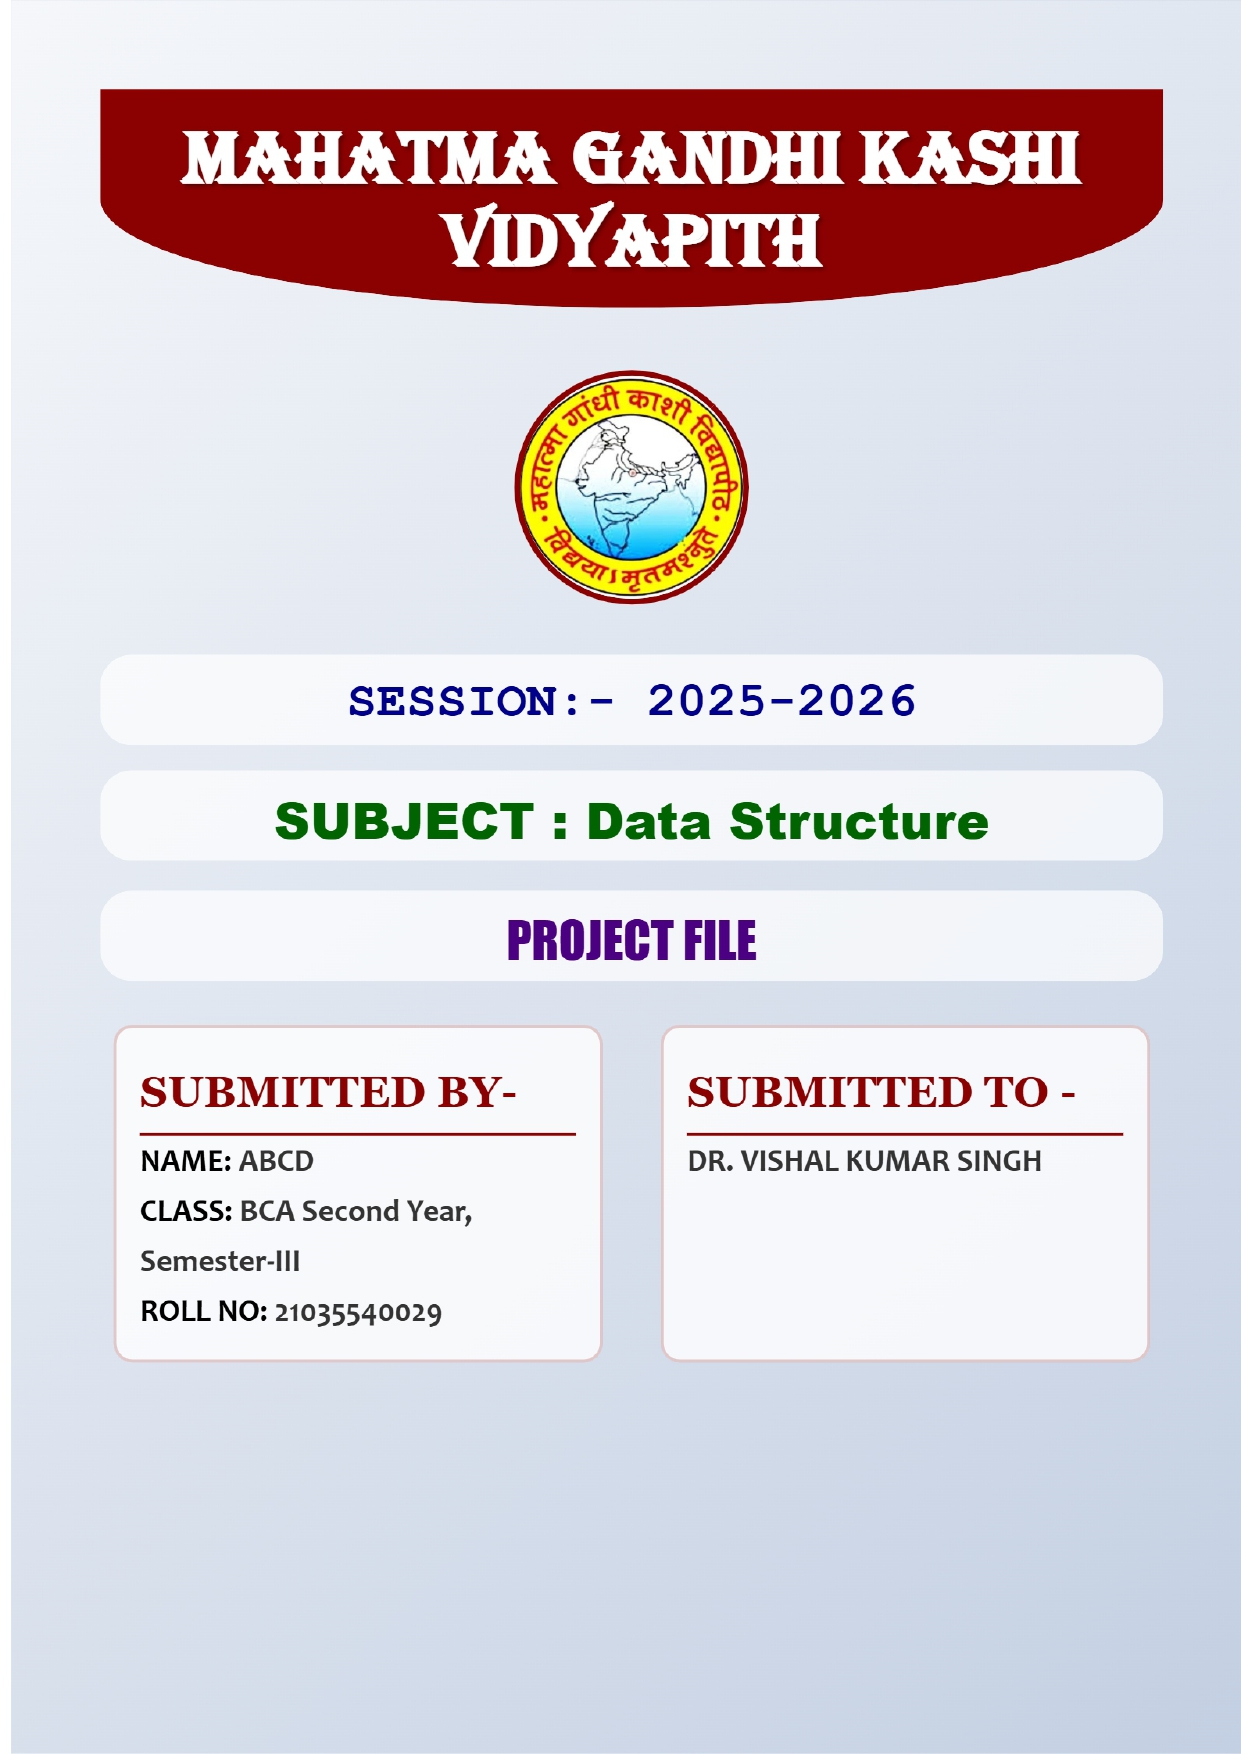
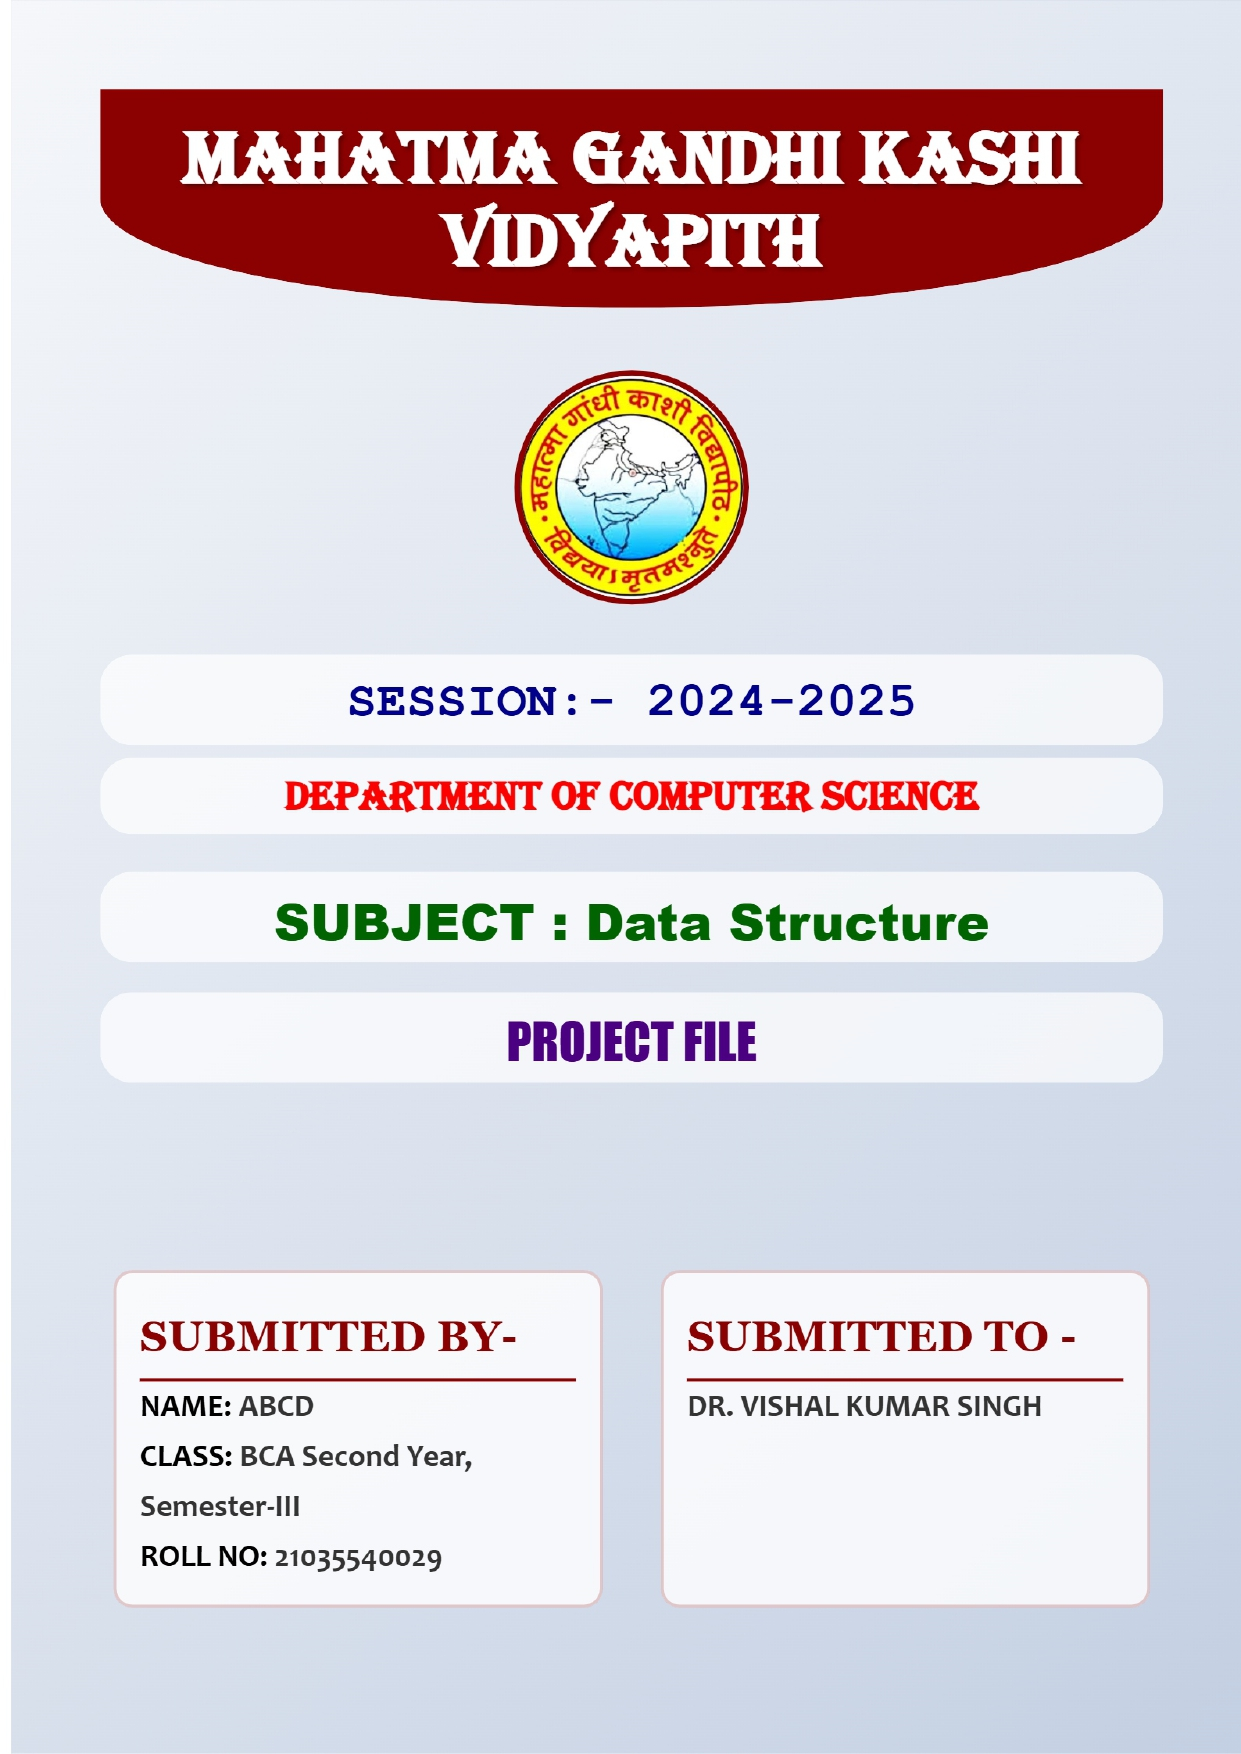
department added in templates

Changed region(s): [[0.0919, 0.431, 0.9492, 0.9236], [0.5818, 0.3694, 0.6124, 0.4002]]

diff --git a/title/title2.html b/title/title2.html
@@ -117,7 +117,8 @@
     }
     
     .form-container input[type="text"],
-    .form-container input[type="file"] {
+    .form-container input[type="file"],
+    .form-container select {
       width: 96%;
       padding: 10px;
       margin-bottom: 16px;
@@ -128,7 +129,8 @@
       transition: all 0.3s;
     }
     
-    .form-container input[type="text"]:focus {
+    .form-container input[type="text"]:focus,
+    .form-container select:focus {
       border-color: #8B0000;
       box-shadow: 0 0 5px rgba(139, 0, 0, 0.3);
       outline: none;
@@ -279,6 +281,18 @@
       border-radius: 20px;
     }
     
+    .department {
+      font-family: 'algerian';
+      font-size: clamp(20px, 2.5vw, 26px);
+      font-weight: bold;
+      color: #ff0000;
+      margin: 8px 0;
+      background: rgba(255,255,255,0.7);
+      display: inline-block;
+      padding: 5px 15px;
+      border-radius: 20px;
+    }
+    
     .subject-title {
       font-family: 'Arial Black', Gadget, sans-serif;
       font-size: clamp(26px, 3.5vw, 32px);
@@ -317,7 +331,7 @@
       justify-content: space-between;
       width: 100%;
       flex-wrap: wrap;
-      margin-top: 28px;
+      margin-top: 120px;
       gap: 20px;
       word-wrap: break-word;
       overflow-wrap: break-word;
@@ -546,7 +560,11 @@ function closePopup() {
     <div class="form-container">
       <h3>Fill your details from here</h3>
       <label for="session">Session:</label>
-      <input type="text" id="session" value="2025-2026" />
+      <input type="text" id="session" value="2024-2025" />
+      
+     <label for="department">Department:</label>
+<input type="text" id="department" value="Department of Computer Science" placeholder="Enter Department Name" />
+      
       <label for="subject">Subject:</label>
       <input type="text" id="subject" value="Data Structure" />
       <label for="projectFile">Project File:</label>
@@ -585,8 +603,9 @@ function closePopup() {
         id="collegeLogo"
       />
       
-      <div class="session" id="page-session">SESSION:- 2025-2026</div>
-      <div class="subject-title" id="page-subject">SUBJECT : SOCIAL SCIENCE</div>
+      <div class="session" id="page-session">SESSION:- 2024-2025</div>
+      <div class="department" id="page-department">DEPARTMENT OF COMPUTER SCIENCE</div>
+      <div class="subject-title" id="page-subject">SUBJECT : DATA STRUCTURE</div>
       <div class="project-file" id="page-projectFile">PROJECT FILE</div>
       <img alt="Subject Logo" class="subject-logo" id="subjectLogo" />
       
@@ -594,7 +613,7 @@ function closePopup() {
         <div class="submitted-by">
           <h4>SUBMITTED BY-</h4>
           <p id="page-studentName"><b>NAME:</b> ABCD</p>
-          <p id="page-className"><b>CLASS:</b> B.A. (Hons.) Political Science, Semester-III</p>
+          <p id="page-className"><b>CLASS:</b> BCA Second Year, Semester-III</p>
           <p id="page-rollNo"><b>ROLL NO:</b> 21035540029</p>
         </div>
         <div class="submitted-to">
@@ -611,6 +630,18 @@ function closePopup() {
     const subjectLogoImg = document.getElementById('subjectLogo');
     const subjectLogoUpload = document.getElementById('subjectLogoUpload');
     const projectPage = document.getElementById('projectPage');
+    const departmentSelect = document.getElementById('department');
+    const customDepartmentInput = document.getElementById('customDepartment');
+
+    // Handle department selection
+    departmentSelect.addEventListener('change', function() {
+      if (this.value === 'Other') {
+        customDepartmentInput.style.display = 'block';
+        customDepartmentInput.value = '';
+      } else {
+        customDepartmentInput.style.display = 'none';
+      }
+    });
 
     showSubjectLogoCheckbox.addEventListener('change', () => {
       if (showSubjectLogoCheckbox.checked) {
@@ -638,6 +669,14 @@ function closePopup() {
     function updatePageData() {
       document.getElementById('page-session').innerText =
         'SESSION:- ' + document.getElementById('session').value;
+      
+      // Get department value
+      let departmentValue = document.getElementById('department').value;
+      if (departmentValue === 'Other') {
+        departmentValue = document.getElementById('customDepartment').value;
+      }
+      document.getElementById('page-department').innerText = departmentValue;
+      
       document.getElementById('page-subject').innerText =
         'SUBJECT : ' + document.getElementById('subject').value;
       document.getElementById('page-projectFile').innerText =

diff --git a/title/title1.html b/title/title1.html
@@ -194,9 +194,16 @@
     .session {
       font-family: 'Courier New', Courier, monospace;
       font-size: clamp(28px, 3.2vw, 35px);
-      font-weight: bold;
-      color: #00008B;
+      font-weight: bolder;
+      color: #ff0000;
       margin: 12px 0 0 0;
+    }
+    .department {
+      font-family: 'Georgia', serif;
+      font-size: clamp(24px, 2.8vw, 30px);
+      font-weight: bold;
+      color: #2200ff;
+      margin: 8px 0;
     }
     .subject-title {
       font-family: 'Arial Black', Gadget, sans-serif;
@@ -225,7 +232,7 @@
       justify-content: space-between;
       width: 100%;
       flex-wrap: wrap;
-      margin-top: 28px;
+      margin-top: 120px;
       gap: 20px;
       word-wrap: break-word;
       overflow-wrap: break-word;
@@ -234,22 +241,22 @@
       width: 46%;
       min-width: 180px;
       text-align: left;
-      padding: 20px 15px 15px 15px;
-      background: rgba(178, 34, 34, 0.16);
-      border-radius: 8px;
+      padding: 0;
+      background: transparent;
+      border-radius: 0;
       margin: 0 auto 0 auto;
       box-sizing: border-box;
       font-size: 1.5em;
-      color: #B22222;
+      color: #000;
       font-weight: 600;
-      box-shadow: 0 1.5px 11px rgba(178, 34, 34, 0.2);
+      box-shadow: none;
       word-wrap: break-word;
       overflow-wrap: break-word;
     }
     h4 {
       font-family: 'Georgia', 'Times New Roman', Times, serif;
       font-size: clamp(24px, 3vw, 28px);
-      color: #8B0000;
+      color: #db0707;
       margin-bottom: 16px;
       border-bottom: 2px solid #8B0000;
       padding-bottom: 6px;
@@ -425,6 +432,10 @@ function closePopup() {
       <h3>Fill your details from here</h3>
       <label for="session">Session:</label>
       <input type="text" id="session" value="2025-2026" />
+      
+      <label for="department">Department:</label>
+      <input type="text" id="department" value="Department of Computer Science" placeholder="Enter Department Name" />
+      
       <label for="subject">Subject:</label>
       <input type="text" id="subject" value="SOCIAL SCIENCE" />
       <label for="projectFile">Project File:</label>
@@ -460,6 +471,7 @@ function closePopup() {
           id="collegeLogo"
         />
         <div class="session" id="page-session">SESSION:- 2025-2026</div>
+        <div class="department" id="page-department">DEPARTMENT OF COMPUTER SCIENCE</div>
         <div class="subject-title" id="page-subject">SUBJECT : SOCIAL SCIENCE</div>
         <div class="project-file" id="page-projectFile">PROJECT FILE</div>
         <img alt="Subject Logo" class="subject-logo" id="subjectLogo" />
@@ -512,6 +524,10 @@ function closePopup() {
     function updatePageData() {
       document.getElementById('page-session').innerText =
         'SESSION:- ' + document.getElementById('session').value;
+      
+      document.getElementById('page-department').innerText =
+        document.getElementById('department').value;
+      
       document.getElementById('page-subject').innerText =
         'SUBJECT : ' + document.getElementById('subject').value;
       document.getElementById('page-projectFile').innerText =

diff --git a/title/title3.html b/title/title3.html
@@ -297,7 +297,7 @@ background: linear-gradient(120deg, #ff0080, #ff8c00, #40e0d0, #1e90ff);
       font-family: 'Courier New', Courier, monospace;
       font-size: clamp(28px, 3.3vw, 34px);
       font-weight: bolder;
-      color: #ff0000;
+      color: #0b03ff;
       margin: 15px 0 0 0;
       background: rgba(255,255,255,0.85);
       display: inline-block;
@@ -305,6 +305,20 @@ background: linear-gradient(120deg, #ff0080, #ff8c00, #40e0d0, #1e90ff);
       border-radius: 25px;
       box-shadow: 0 4px 8px rgba(0,0,0,0.1);
       border: 2px solid #00008B;
+    }
+    
+    .department {
+      font-family: 'Georgia', serif;
+      font-size: clamp(26px, 3vw, 32px);
+      font-weight: bold;
+      color: #ff0000;
+      margin: 10px 0 5px 0;
+      background: rgba(255,255,255,0.85);
+      display: inline-block;
+      padding: 8px 20px;
+      border-radius: 25px;
+      box-shadow: 0 4px 8px rgba(0,0,0,0.1);
+      border: 2px solid #8B0000;
     }
     
     .subject-title {
@@ -326,7 +340,7 @@ background: linear-gradient(120deg, #ff0080, #ff8c00, #40e0d0, #1e90ff);
       font-size: clamp(28px, 3.3vw, 34px);
       color: #1100ff;
       margin-top: 16px;
-      background: linear-gradient(90deg, transparent, #ffd700, transparent);
+      background: linear-gradient(90deg, transparent, #ffffff, transparent);
       display: inline-block;
       padding: 8px 20px;
       border-radius: 25px;
@@ -628,6 +642,10 @@ function closePopup() {
       <h3>Fill your details from here</h3>
       <label for="session">Session:</label>
       <input type="text" id="session" value="2025-2026" />
+      
+      <label for="department">Department:</label>
+      <input type="text" id="department" value="Department of Computer Science" placeholder="Enter Department Name" />
+      
       <label for="subject">Subject:</label>
       <input type="text" id="subject" value="Data Structure" />
       <label for="projectFile">Project File:</label>
@@ -668,6 +686,7 @@ function closePopup() {
           />
           
           <div class="session" id="page-session">SESSION:- 2025-2026</div>
+          <div class="department" id="page-department">DEPARTMENT OF COMPUTER SCIENCE</div>
           <div class="subject-title" id="page-subject">SUBJECT : DATA STRUCTURE</div>
           <div class="project-file" id="page-projectFile">PROJECT FILE</div>
           <img alt="Subject Logo" class="subject-logo" id="subjectLogo" />
@@ -724,6 +743,10 @@ function closePopup() {
     function updatePageData() {
       document.getElementById('page-session').innerText =
         'SESSION:- ' + document.getElementById('session').value;
+      
+      document.getElementById('page-department').innerText =
+        document.getElementById('department').value.toUpperCase();
+      
       document.getElementById('page-subject').innerText =
         'SUBJECT : ' + document.getElementById('subject').value;
       document.getElementById('page-projectFile').innerText =
